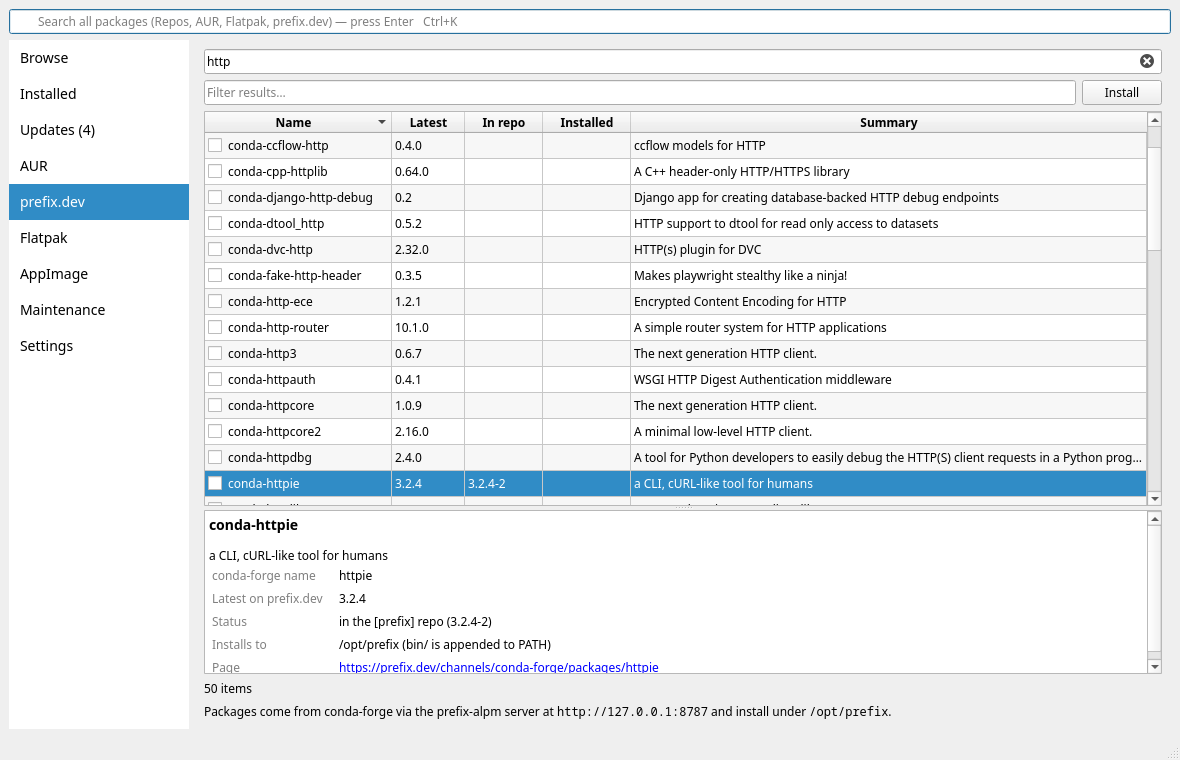
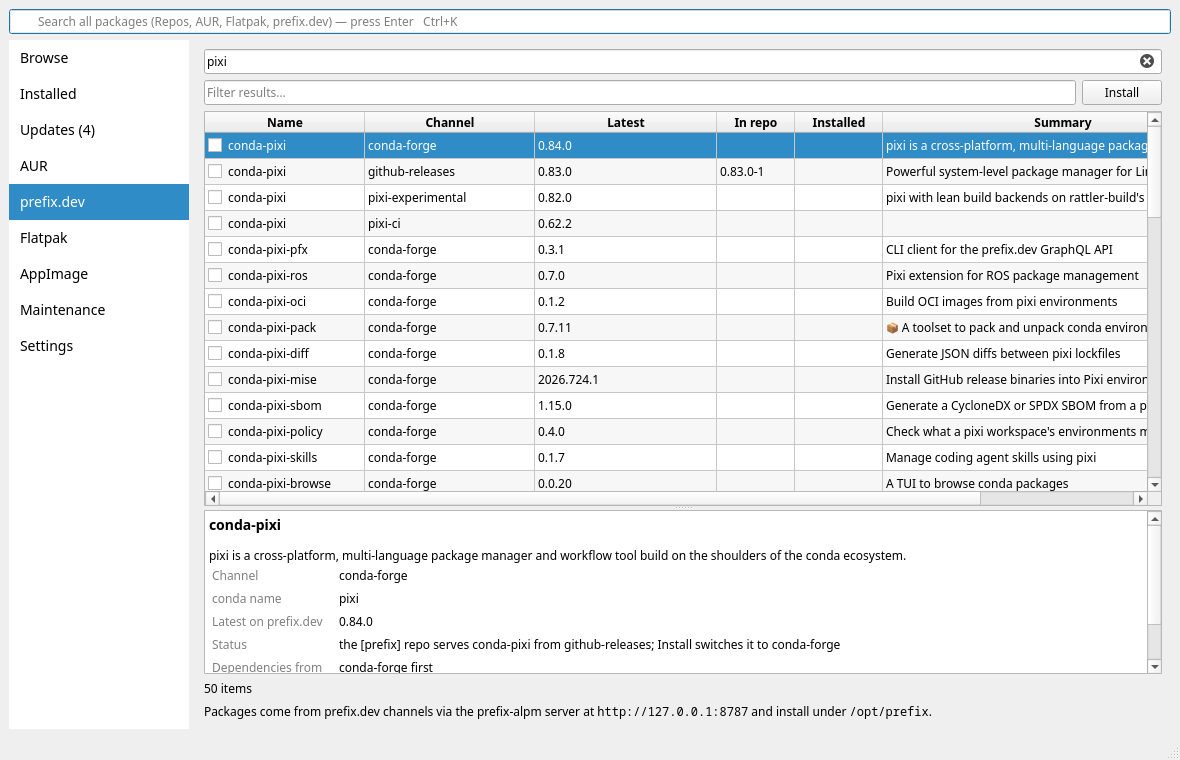
prefix.dev: screenshot with channels, README
Claude-Session: https://claude.ai/code/session_01DPL5hjZMTVW7qWcnshsCKg

Changed region(s): [[0.1525, 0.1513, 0.9763, 0.6961], [0.1831, 0.7263, 0.7627, 0.9684], [0.6407, 0.8474, 0.7017, 0.8776]]

diff --git a/README.md b/README.md
@@ -14,7 +14,7 @@ with `--ui-mode`, results come back as base64 JSON frames on stdout, and interac
 | Installed | Installed packages, explicit filter, remove (cascade / optdeps / configs) | `-Ls`, `remove standard` |
 | Updates | Repo + AUR + Flatpak updates, sync DBs, upgrade all | `-P`, `sync --force`, `upgrade all` |
 | AUR | Search, PKGBUILD preview, build+install, installed list, remove | `search aur`, `list aur`, `install/remove aur` |
-| prefix.dev | Live search of conda-forge as you type (relevance-ranked), shows what the `[prefix]` repo offers and what's installed, Install adds the package to a [prefix-alpm](https://fileapi.fastapicloud.dev/git/smelly/prefix-alpm.git) server, syncs and installs under `/opt/prefix`. Without a server it still searches prefix.dev directly | prefix-alpm `/search`, `/add`; `sync --force`, `install standard` |
+| prefix.dev | Live search of every public prefix.dev channel as you type (relevance-ranked, Channel column; installs from the chosen channel), shows what the `[prefix]` repo offers and what's installed, Install adds the package to a [prefix-alpm](https://fileapi.fastapicloud.dev/git/smelly/prefix-alpm.git) server, syncs and installs under `/opt/prefix`. Without a server it still searches prefix.dev directly | prefix-alpm `/search`, `/add`; `sync --force`, `install standard` |
 | Flatpak | Installed apps, Flathub search, install (system/user), remove, update | `-Lf`, `search flatpak`, `install/remove flatpak` |
 | AppImage | List, check/upgrade, install from file, remove | `list appimage`, `list-updates appimage`, … |
 | Maintenance | Sync, remove orphans, clean cache, repair DB, fix permissions, install local package | `purify`, `utility` |
